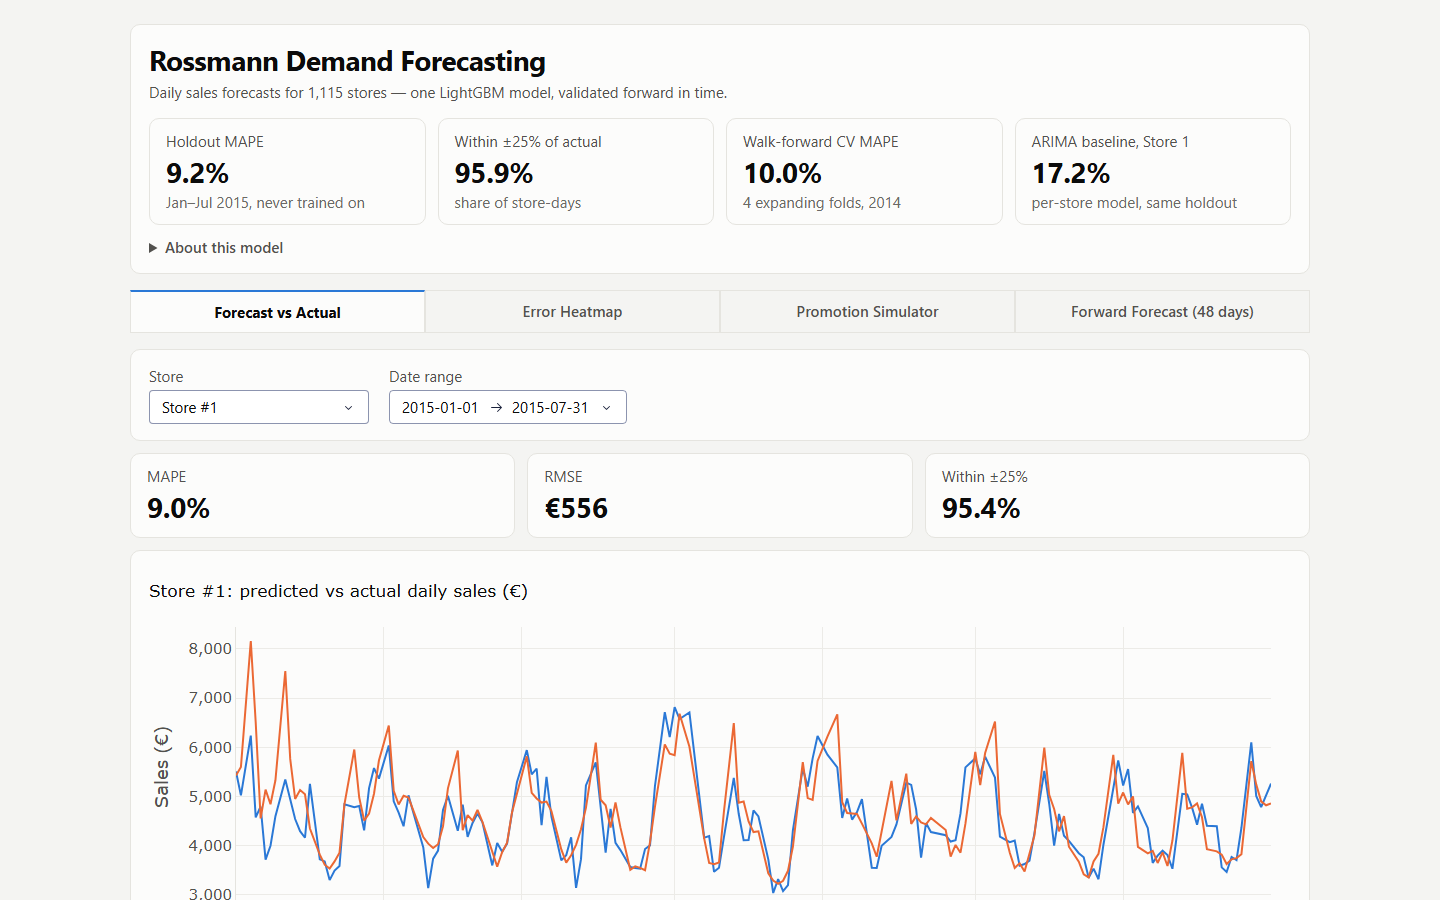
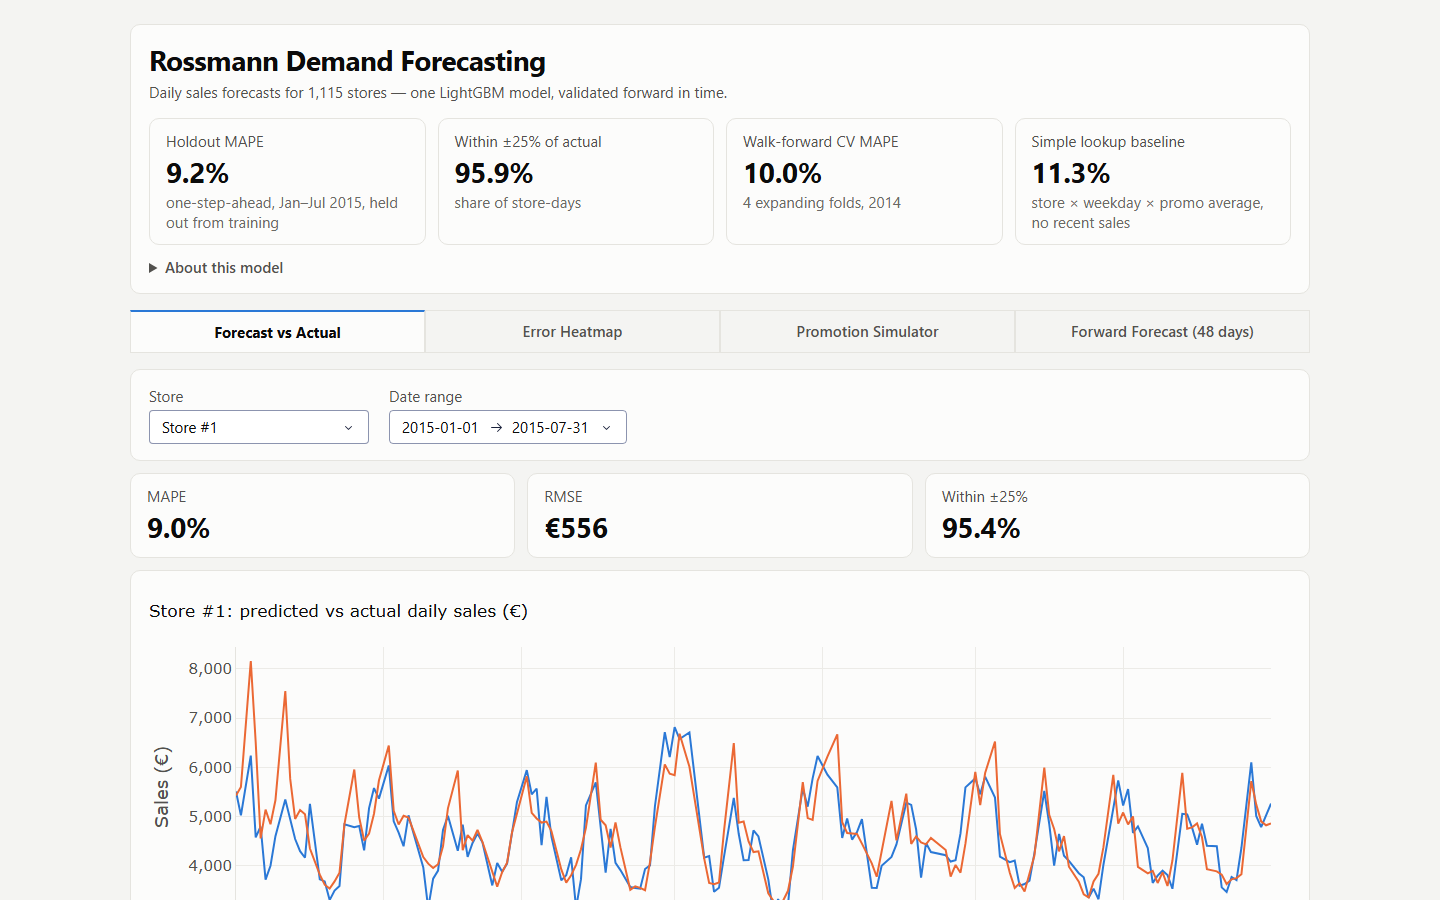
Retake dashboard screenshot and restore it in the README

diff --git a/README.md b/README.md
@@ -2,6 +2,8 @@
 
 **Live demo:** https://rossmann-demand-forecasting.onrender.com/ — hosted on Render's free tier, so if it has been idle the first load shows a "starting up" page for up to a minute.
 
+![Rossmann Demand Forecasting dashboard](docs/screenshot.png)
+
 ## Problem Statement
 Rossmann operates 1,115 stores across multiple regions with demand driven by promotions,
 holidays, store type, and competition. Accurate forecasts reduce stockouts and excess inventory.
